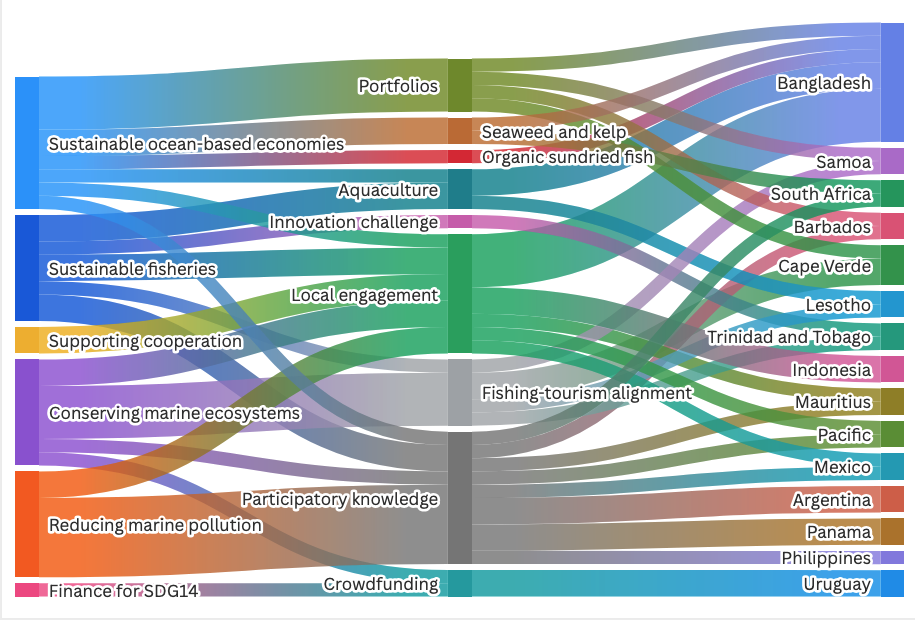
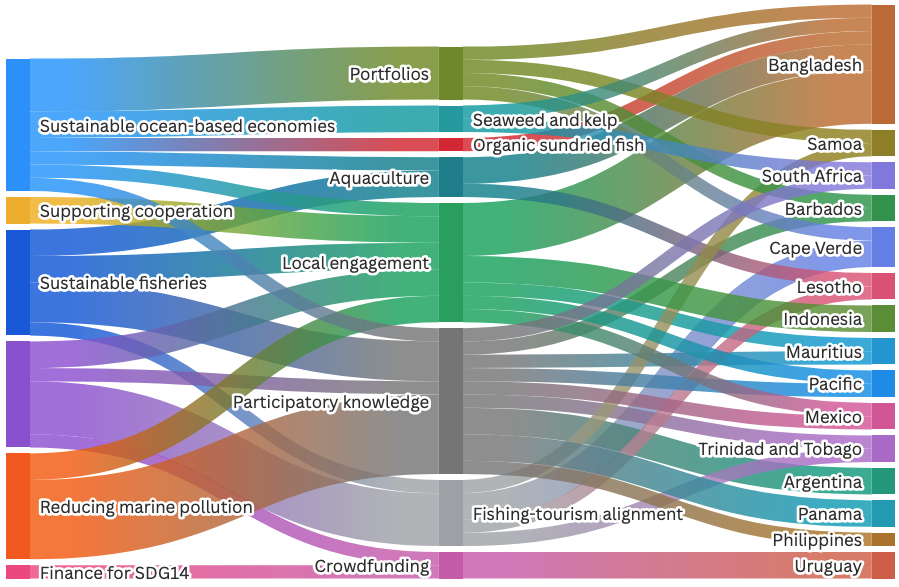
typos + replaced sankey diagram

diff --git a/app/lib/data/collection/tempData/oceans.ts b/app/lib/data/collection/tempData/oceans.ts
@@ -21,7 +21,7 @@ export const collection = {
 					'<b>Aquaculture and fish farming</b>. Many coastal communities depend on catching and selling fish for their livelihood, but modern fishing can severely damage marine environments, leading to pollution, biodiversity reduction and ultimately environmental collapse. UNDP is experimenting with aquaculture and fish farming as a way to supply seafood while maintaining a much tighter control on the environmental consequences of doing so. Aquaculture can also be complementary to other economic activities, such as farming, and in this sense increase the diversity and resilience of coastal economies (Bangladesh, Lesotho – the latter for freshwater aquaculture). In freshwater-scarce environments, aquaculture can coexist with agriculture on the same land through polyculture (Barbados). Freshwater aquaculture can also lead to dilemmas about how to allocate water: UNDP is looking into methods to overcome them by using generative AI to simulate the impact of different solutions (Mexico).',
 					'<b>Seaweed and kelp</b> Seaweed and kelp are abundant in nature and rich in nutrients. They have the potential to produce human food, animal fodder or agricultural inputs such as fertilizers with much reduced environmental footprint than land agriculture, animal husbandry and fishing. UNDP teams are working across many countries (Bangladesh, Barbados, Mauritius, Namibia, Samoa, South Africa) to experiment with various species of seaweed, seagrass, kelp, seagrapes and so on. ',
 					'<b>Integration between fishing and tourism</b>. The rapid growth of tourism as a global industry is a mixed blessing for coastal communities. It benefits fisherfolk by creating additional, local demand for catch; on the down side, it puts additional pressure on marine environments and often leads to local frictions witin communities. For example, fisherfolk tend to view beaches (and the sea itself) as bases for their operations, where they leave their equipment and even abandon waste. Tourists, instead, see beaches as a tourist attraction, which should be well groomed. UNDP teams in several countries are working on reconciling the two. For example, Barbados connects fisherfolk with hotels, trying for shorter supply chains and a better livelihood for the fishing communities. Mauritius is experimenting on ways that artisanal fisherfolk, with their rich local knowledge can provide services to senior tourists. Cape Verde, Lesotho and Samoa pilot programmes where catch-and-release or otherwise highly sustainable fishing are offered to tourists as experiences.',
-					'<b>Citizen science and participatory knowledge</b>. Effective action to conserve and regenerate marine environments needs up-to-date data and knowledge on their condition. Many local contexts suffer from data gaps. Additionally, that knowledge needs to be shared for communities to support restorative actions and participate in them. UNDP\s response to this state of affairs is to engage citizens and communities in the production and socialization of the relevant data and knowledge. UNDP deployed citizen science initiatives to monitor marine ecosystems (Argentina) and marine litter (Panama); studied the seasonal cycles of activites alternative to fishing – and often performed by women – to better understand the implications of temporary fishing bans on coastal livelihoods (Bangladesh); equipped fishing vessels with networked sensors to study water quality (Cape Verde); ran ethnographies on waste and the circular economy to better understand the phenomenon of marine littering (Pacific, Pakistan, Philippines); designed and facilitated participatory dialogues to inform the government\'s position in negotiating a global agreement on plastic pollution (Mexico); organized solutions mapping campaigns (South Africa), innovation challenges (Pacific, Trinidad and Tobago) and "blue" hackathons (Cape Verde again) to benefit from the ingenuity of local innovators.',
+					'<b>Citizen science and participatory knowledge</b>. Effective action to conserve and regenerate marine environments needs up-to-date data and knowledge on their condition. Many local contexts suffer from data gaps. Additionally, that knowledge needs to be shared for communities to support restorative actions and participate in them. UNDP\'s response to this state of affairs is to engage citizens and communities in the production and socialization of the relevant data and knowledge. UNDP deployed citizen science initiatives to monitor marine ecosystems (Argentina) and marine litter (Panama); studied the seasonal cycles of activities alternative to fishing – and often performed by women – to better understand the implications of temporary fishing bans on coastal livelihoods (Bangladesh); equipped fishing vessels with networked sensors to study water quality (Cape Verde); ran ethnographies on waste and the circular economy to better understand the phenomenon of marine littering (Pacific, Pakistan, Philippines); designed and facilitated participatory dialogues to inform the government\'s position in negotiating a global agreement on plastic pollution (Mexico); organized solutions mapping campaigns (South Africa), innovation challenges (Pacific, Trinidad and Tobago) and "blue" hackathons (Cape Verde again) to benefit from the ingenuity of local innovators.',
 					'<b>Local engagement of coastal communities</b>. Development interventions can have no lasting impact without the informed consent, and ideally the active involvement, of the communities where those interventions take place. Yet, oftentimes actions to conserve marine environments (for example a seasonal fishing ban) or adopt more sustainable business models (For example, crafting tourism experiences from fishing expeditions) can feel abstract and distant. They tend to have long-term benefits far into the future, but demand investments of time and resources right here and now. UNDP teams across the planet deploy methods from collective intelligence and participatory design to build interventions that reconcile environmental protection with community prosperity. Powered by collective intelligence, these interventions tend to be highly creative. For example, UNDP Bangladesh has prototyped, and is now scaling, an initiative for island communities to become stewards of the sea turtles laying eggs on their beaches, and of their hatchlings. UNDP Indonesia worked with an interfaith alliance of religious-based charities to collect plastic waste, thereby preventing it from ending up in the water. UNDP Pacific deployed collective intelligence methods to co-design the services auxiliary to a project of solar electrification of some smaller islands (solar energy production fluctuates with sunlight, so such projects have the problem of what to do with the extra power generated on sunny days). UNDP Mauritius insisted on including fishing communities in the revamping of the islands\' tourist offer.',
 					'<b>Portfolios</b>. Marine and coastal ecosystems are inherently complex, and resist single-point linear interventions. UNDP acknowledges that holistic portfolios of interventions are almost always necessary. Teams in Bangladesh, Barbados, Cape Verde and Guinea-Bissau are implementing Blue Economy portfolios, seeking to address marine conservation, biodiversity, and human prosperity goal with a mutually consistent set of interventions.',
 					'<b>Crowdfunding</b>. UNDP Uruguay has experimented with crowdfunding as an innovative approach to financing marine ecosystems restoration.',
